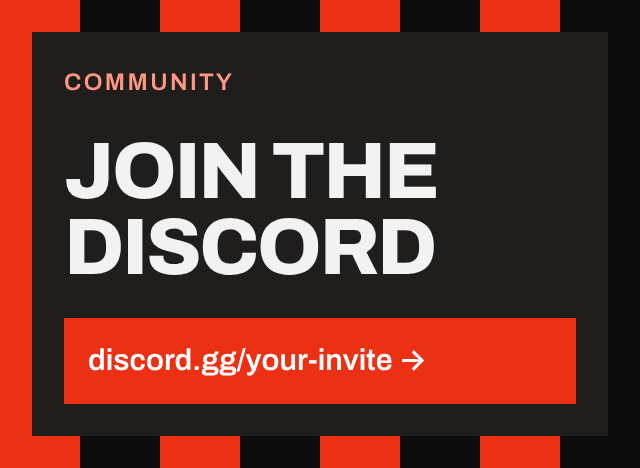
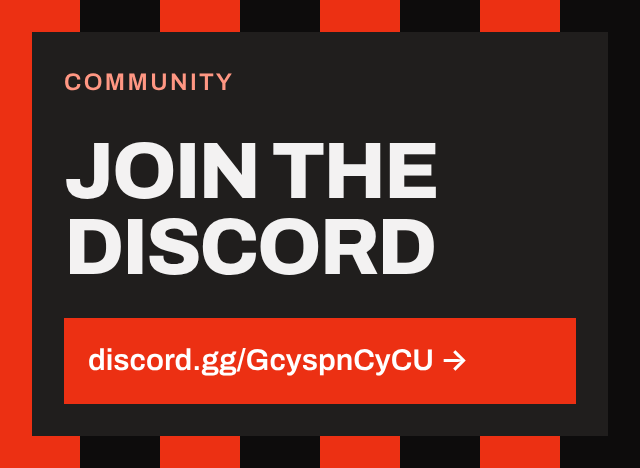
Fill in setup specs and Discord invite on Twitch panels
Claude-Session: https://claude.ai/code/session_01QHYbKfo8avcPEj3kAuyB7b

Changed region(s): [[0.375, 0.7479, 0.75, 0.8077]]

diff --git a/panels/index.html b/panels/index.html
@@ -64,8 +64,8 @@
 <div style="height:14px;background:repeating-linear-gradient(90deg,var(--color-accent) 0 20px,#0d0c0c 20px 40px);"></div>
 <div style="padding:16px 16px 12px;font-size:28px;font-weight:800;letter-spacing:-.02em;text-transform:uppercase;border-bottom:2px solid var(--color-neutral-800);">Setup</div>
 <div style="display:grid;grid-template-columns:96px 1fr;padding:0 16px 4px;font-size:15px;color:var(--color-neutral-200);">
-<div style="padding:11px 0;border-bottom:2px solid var(--color-neutral-800);font-size:12px;letter-spacing:.08em;text-transform:uppercase;font-weight:600;color:var(--color-accent-400);">CPU</div><div style="padding:11px 0;border-bottom:2px solid var(--color-neutral-800);">Add yours</div>
-<div style="padding:11px 0;border-bottom:2px solid var(--color-neutral-800);font-size:12px;letter-spacing:.08em;text-transform:uppercase;font-weight:600;color:var(--color-accent-400);">GPU</div><div style="padding:11px 0;border-bottom:2px solid var(--color-neutral-800);">Add yours</div>
+<div style="padding:11px 0;border-bottom:2px solid var(--color-neutral-800);font-size:12px;letter-spacing:.08em;text-transform:uppercase;font-weight:600;color:var(--color-accent-400);">CPU</div><div style="padding:11px 0;border-bottom:2px solid var(--color-neutral-800);">Intel i9-13900K</div>
+<div style="padding:11px 0;border-bottom:2px solid var(--color-neutral-800);font-size:12px;letter-spacing:.08em;text-transform:uppercase;font-weight:600;color:var(--color-accent-400);">GPU</div><div style="padding:11px 0;border-bottom:2px solid var(--color-neutral-800);">NVIDIA RTX 4060</div>
 <div style="padding:11px 0;border-bottom:2px solid var(--color-neutral-800);font-size:12px;letter-spacing:.08em;text-transform:uppercase;font-weight:600;color:var(--color-accent-400);">Yoke</div><div style="padding:11px 0;border-bottom:2px solid var(--color-neutral-800);">Add yours</div>
 <div style="padding:11px 0;border-bottom:2px solid var(--color-neutral-800);font-size:12px;letter-spacing:.08em;text-transform:uppercase;font-weight:600;color:var(--color-accent-400);">Camera</div><div style="padding:11px 0;border-bottom:2px solid var(--color-neutral-800);">Add yours</div>
 <div style="padding:11px 0;font-size:12px;letter-spacing:.08em;text-transform:uppercase;font-weight:600;color:var(--color-accent-400);">Mic</div><div style="padding:11px 0;">Fifine AM8</div>
@@ -76,7 +76,7 @@
 <div style="background:var(--color-text);padding:16px;display:flex;flex-direction:column;gap:16px;">
 <div style="font-size:12px;font-weight:600;letter-spacing:.1em;text-transform:uppercase;color:var(--color-accent-400);">Community</div>
 <div style="font-size:40px;font-weight:800;line-height:.95;letter-spacing:-.03em;text-transform:uppercase;">Join the Discord</div>
-<div style="background:var(--color-accent);color:#fff;padding:10px 12px;font-size:15px;font-weight:600;">discord.gg/your-invite →</div>
+<div style="background:var(--color-accent);color:#fff;padding:10px 12px;font-size:15px;font-weight:600;">discord.gg/GcyspnCyCU →</div>
 </div>
 </div>
 
